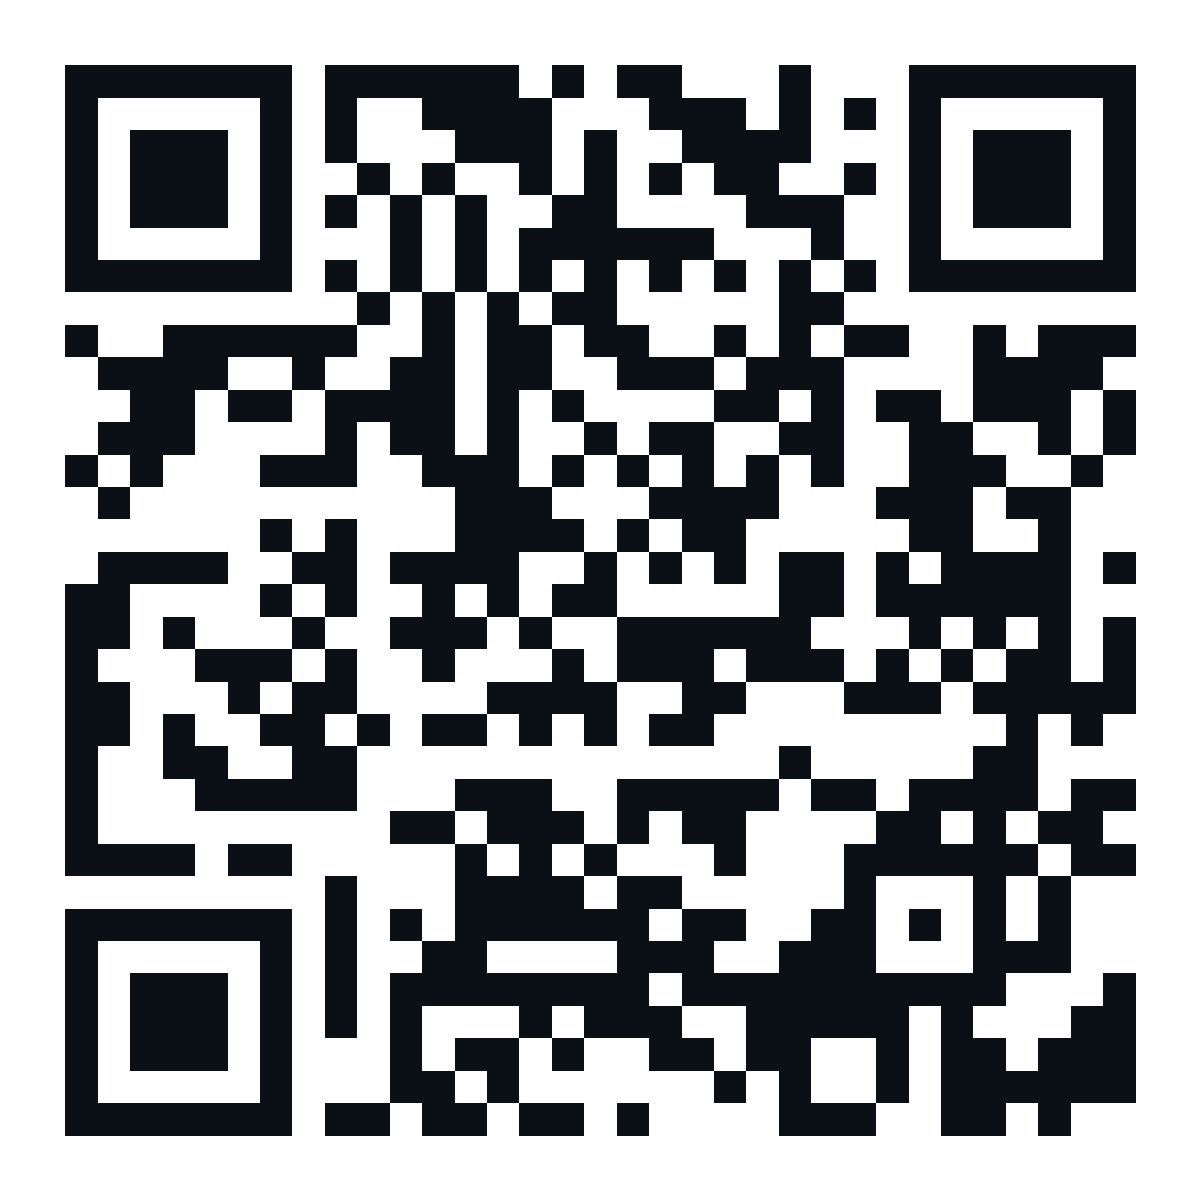
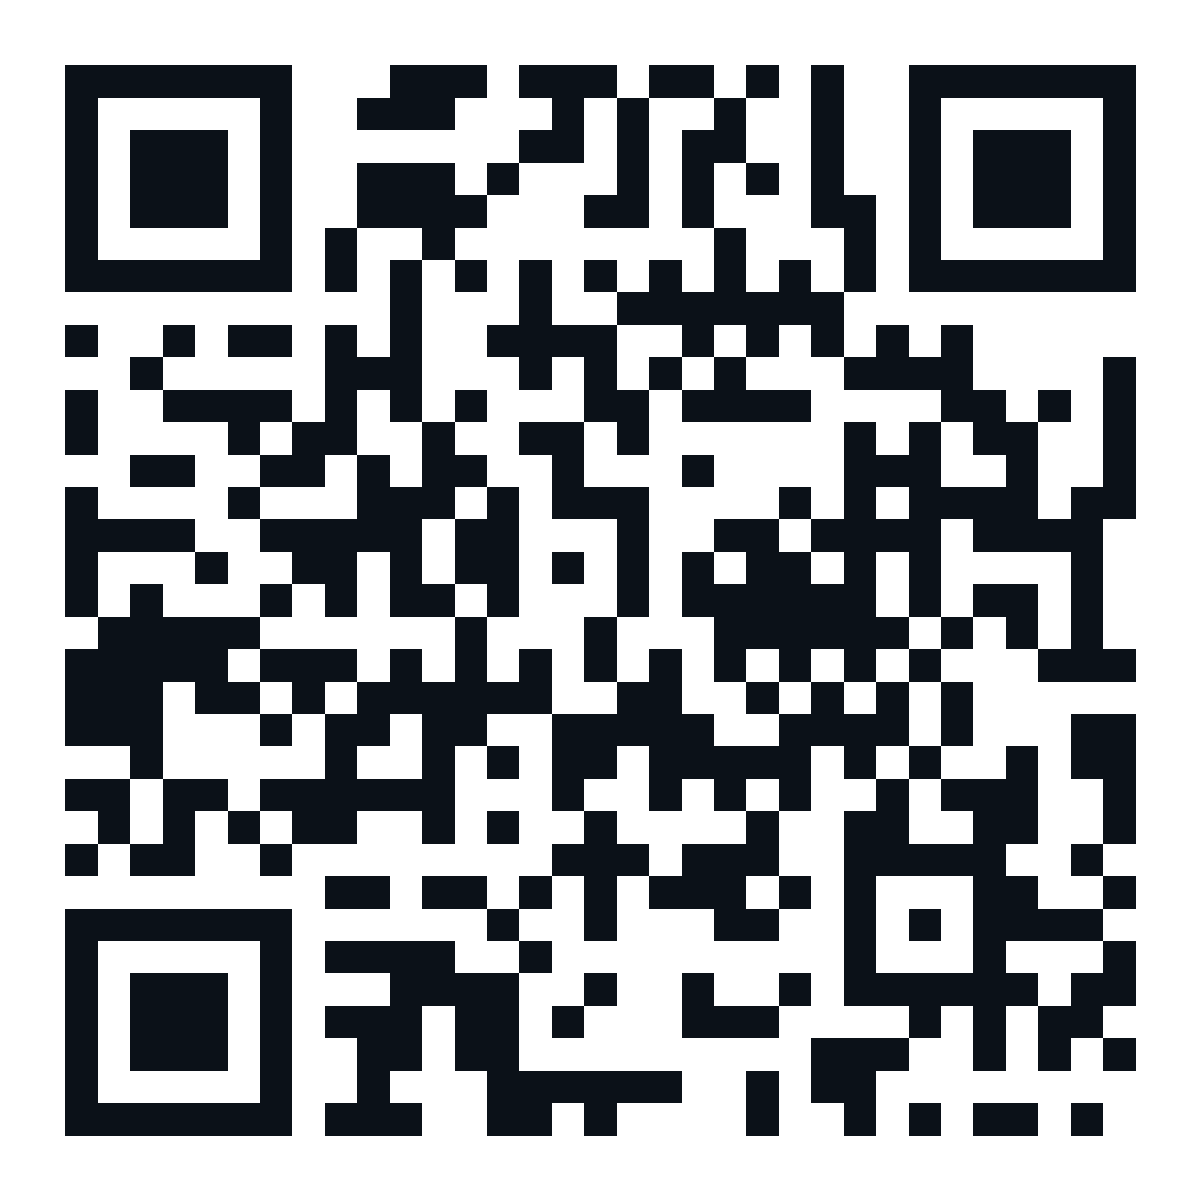
Point the QR and scan sheet at the GitHub Pages URL
Regenerated slapshot-qr.png/.svg for
https://jtpetrotech.github.io/slapshot-arena/ (version 4, 33x33 modules,
ECC M) and verified the PNG decodes back to that URL. scan.html now shows
the public link and drops the private-share warning, which no longer
applies.

diff --git a/scan.html b/scan.html
@@ -77,10 +77,10 @@ li span{color:var(--muted)}
   <p class="sub">Point a phone camera at the code. The game opens straight in the browser, no app store, no install.</p>
 
   <div class="code">
-    <svg xmlns="http://www.w3.org/2000/svg" viewBox="0 0 35 35" shape-rendering="crispEdges" role="img" aria-label="QR code linking to Slapshot Arena"><path fill="#ffffff" d="M0 0h35v35H0z"/><path stroke="#000000" d="M1 1.5h7m1 0h6m1 0h1m1 0h2m3 0h1m3 0h7M1 2.5h1m5 0h1m1 0h1m2 0h4m3 0h3m1 0h1m1 0h1m1 0h1m5 0h1M1 3.5h1m1 0h3m1 0h1m1 0h1m3 0h3m1 0h1m2 0h4m3 0h1m1 0h3m1 0h1M1 4.5h1m1 0h3m1 0h1m2 0h1m1 0h1m2 0h1m1 0h1m1 0h1m1 0h2m2 0h1m1 0h1m1 0h3m1 0h1M1 5.5h1m1 0h3m1 0h1m1 0h1m1 0h1m1 0h1m2 0h2m4 0h3m2 0h1m1 0h3m1 0h1M1 6.5h1m5 0h1m3 0h1m1 0h1m1 0h6m3 0h1m2 0h1m5 0h1M1 7.5h7m1 0h1m1 0h1m1 0h1m1 0h1m1 0h1m1 0h1m1 0h1m1 0h1m1 0h1m1 0h7M10 8.5h1m1 0h1m1 0h1m1 0h2m5 0h2M1 9.5h1m2 0h6m2 0h1m1 0h2m1 0h2m2 0h1m1 0h1m1 0h2m2 0h1m1 0h3M2 10.5h4m2 0h1m2 0h2m1 0h2m2 0h3m1 0h3m4 0h4M3 11.5h2m1 0h2m1 0h4m1 0h1m1 0h1m4 0h2m1 0h1m1 0h2m1 0h3m1 0h1M2 12.5h3m4 0h1m1 0h2m1 0h1m2 0h1m1 0h2m2 0h2m2 0h2m2 0h1m1 0h1M1 13.5h1m1 0h1m3 0h3m2 0h3m1 0h1m1 0h1m1 0h1m1 0h1m1 0h1m2 0h3m2 0h1M2 14.5h1m10 0h3m3 0h4m3 0h3m1 0h2M7 15.5h1m1 0h1m3 0h4m1 0h1m1 0h2m5 0h2m2 0h1M2 16.5h4m2 0h2m1 0h4m2 0h1m1 0h1m1 0h1m1 0h2m1 0h1m1 0h4m1 0h1M1 17.5h2m4 0h1m1 0h1m2 0h1m1 0h1m1 0h2m5 0h2m1 0h6M1 18.5h2m1 0h1m3 0h1m2 0h3m1 0h1m2 0h6m3 0h1m1 0h1m1 0h1m1 0h1M1 19.5h1m3 0h3m1 0h1m2 0h1m3 0h1m1 0h3m1 0h3m1 0h1m1 0h1m1 0h2m1 0h1M1 20.5h2m3 0h1m1 0h2m4 0h4m2 0h2m3 0h3m1 0h5M1 21.5h2m1 0h1m2 0h2m1 0h1m1 0h2m1 0h1m1 0h1m1 0h2m9 0h1m1 0h1M1 22.5h1m2 0h2m2 0h2m13 0h1m5 0h2M1 23.5h1m3 0h5m3 0h3m2 0h5m1 0h2m1 0h4m1 0h2M1 24.5h1m9 0h2m1 0h3m1 0h1m1 0h2m4 0h2m1 0h1m1 0h2M1 25.5h4m1 0h2m5 0h1m1 0h1m1 0h1m3 0h1m3 0h6m1 0h2M9 26.5h1m3 0h4m1 0h2m5 0h1m3 0h1m1 0h1M1 27.5h7m1 0h1m1 0h1m1 0h6m1 0h2m2 0h2m1 0h1m1 0h1m1 0h1M1 28.5h1m5 0h1m1 0h1m2 0h2m4 0h3m2 0h3m3 0h3M1 29.5h1m1 0h3m1 0h1m1 0h1m1 0h8m1 0h10m3 0h1M1 30.5h1m1 0h3m1 0h1m1 0h1m1 0h1m3 0h1m1 0h3m2 0h5m1 0h1m3 0h2M1 31.5h1m1 0h3m1 0h1m3 0h1m1 0h2m1 0h1m2 0h2m1 0h2m2 0h1m1 0h2m1 0h3M1 32.5h1m5 0h1m3 0h2m1 0h1m6 0h1m1 0h1m2 0h1m1 0h6M1 33.5h7m1 0h2m1 0h2m1 0h1m4 0h3m2 0h2m1 0h1"/></svg>
+    <svg shape-rendering="crispEdges" role="img" aria-label="QR code linking to Slapshot Arena" xmlns="http://www.w3.org/2000/svg" viewBox="0 0 37 37" shape-rendering="crispEdges"><path fill="#ffffff" d="M0 0h37v37H0z"/><path stroke="#000000" d="M2 2.5h7m3 0h3m1 0h3m1 0h2m1 0h1m1 0h1m2 0h7M2 3.5h1m5 0h1m2 0h3m3 0h1m1 0h1m2 0h1m2 0h1m2 0h1m5 0h1M2 4.5h1m1 0h3m1 0h1m7 0h2m1 0h1m1 0h2m2 0h1m2 0h1m1 0h3m1 0h1M2 5.5h1m1 0h3m1 0h1m2 0h3m1 0h1m3 0h1m1 0h1m1 0h1m1 0h1m2 0h1m1 0h3m1 0h1M2 6.5h1m1 0h3m1 0h1m2 0h4m3 0h2m1 0h1m3 0h2m1 0h1m1 0h3m1 0h1M2 7.5h1m5 0h1m1 0h1m2 0h1m8 0h1m3 0h1m1 0h1m5 0h1M2 8.5h7m1 0h1m1 0h1m1 0h1m1 0h1m1 0h1m1 0h1m1 0h1m1 0h1m1 0h1m1 0h7M12 9.5h1m3 0h1m2 0h7M2 10.5h1m2 0h1m1 0h2m1 0h1m1 0h1m2 0h4m2 0h1m1 0h1m1 0h1m1 0h1m1 0h1M4 11.5h1m5 0h3m3 0h1m1 0h1m1 0h1m1 0h1m3 0h4m4 0h1M2 12.5h1m2 0h4m1 0h1m1 0h1m1 0h1m3 0h2m1 0h4m4 0h2m1 0h1m1 0h1M2 13.5h1m4 0h1m1 0h2m2 0h1m2 0h2m1 0h1m6 0h1m1 0h1m1 0h2m2 0h1M4 14.5h2m2 0h2m1 0h1m1 0h2m2 0h1m3 0h1m4 0h3m2 0h1m2 0h1M2 15.5h1m4 0h1m3 0h3m1 0h1m1 0h3m4 0h1m1 0h1m1 0h4m1 0h2M2 16.5h4m2 0h5m1 0h2m3 0h1m2 0h2m1 0h4m1 0h4M2 17.5h1m3 0h1m2 0h2m1 0h1m1 0h2m1 0h1m1 0h1m1 0h1m1 0h2m1 0h1m1 0h1m4 0h1M2 18.5h1m1 0h1m3 0h1m1 0h1m1 0h2m1 0h1m3 0h1m1 0h6m1 0h1m1 0h2m1 0h1M3 19.5h5m6 0h1m3 0h1m3 0h6m1 0h1m1 0h1m1 0h1M2 20.5h5m1 0h3m1 0h1m1 0h1m1 0h1m1 0h1m1 0h1m1 0h1m1 0h1m1 0h1m1 0h1m3 0h3M2 21.5h3m1 0h2m1 0h1m1 0h6m2 0h2m2 0h1m1 0h1m1 0h1m1 0h1M2 22.5h3m3 0h1m1 0h2m1 0h2m2 0h5m2 0h4m1 0h1m3 0h2M4 23.5h1m5 0h1m2 0h1m1 0h1m1 0h2m1 0h5m1 0h1m1 0h1m2 0h1m1 0h2M2 24.5h2m1 0h2m1 0h6m3 0h1m2 0h1m1 0h1m1 0h1m2 0h1m1 0h3m2 0h1M3 25.5h1m1 0h1m1 0h1m1 0h2m2 0h1m1 0h1m2 0h1m4 0h1m2 0h2m2 0h2m2 0h1M2 26.5h1m1 0h2m2 0h1m8 0h3m1 0h3m2 0h5m2 0h1M10 27.5h2m1 0h2m1 0h1m1 0h1m1 0h3m1 0h1m1 0h1m3 0h2m2 0h1M2 28.5h7m6 0h1m2 0h1m3 0h2m2 0h1m1 0h1m1 0h4M2 29.5h1m5 0h1m1 0h4m2 0h1m9 0h1m3 0h1m3 0h1M2 30.5h1m1 0h3m1 0h1m3 0h4m2 0h1m2 0h1m2 0h1m1 0h6m1 0h2M2 31.5h1m1 0h3m1 0h1m1 0h3m1 0h2m1 0h1m3 0h3m4 0h1m1 0h1m1 0h2M2 32.5h1m1 0h3m1 0h1m2 0h2m1 0h2m9 0h3m2 0h1m1 0h1m1 0h1M2 33.5h1m5 0h1m2 0h1m3 0h6m2 0h1m1 0h2M2 34.5h7m1 0h3m2 0h2m1 0h1m4 0h1m2 0h1m1 0h1m1 0h2m1 0h1"/></svg>
   </div>
 
-  <a class="url" href="https://claude.ai/artifact/PBUBpj4NmB6FHinWWLxHfK">claude.ai/artifact/PBUBpj4NmB6FHinWWLxHfK</a>
+  <a class="url" href="https://jtpetrotech.github.io/slapshot-arena/">jtpetrotech.github.io/slapshot-arena</a>
 
   <ol>
     <li><div><b>Scan the code</b> <span>&mdash; the phone camera app is enough, no QR reader needed.</span></div></li>
@@ -88,7 +88,7 @@ li span{color:var(--muted)}
     <li><div><b>Keep it on the home screen.</b> <span>iPhone: Share, then Add to Home Screen. Android: the browser menu, then Add to Home screen.</span></div></li>
   </ol>
 
-  <p class="note">The code points at a private page. Anyone you want to play it has to be on the share list for it first.</p>
+  <p class="note">Open to anyone &mdash; no account, no sign-in, nothing to install. Once it has loaded, the game keeps working with the phone offline.</p>
 </div>
 </body>
 </html>
